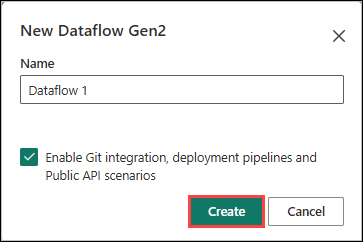
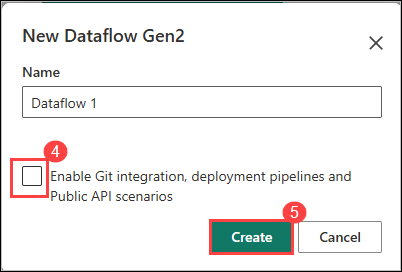
Updates

diff --git a/Instructions/Labs/07-data-engineering-ingest-data-in-fabric.md b/Instructions/Labs/07-data-engineering-ingest-data-in-fabric.md
@@ -16,7 +16,7 @@ You will be able to complete the following tasks:
    
 # Create New - Dataflow Gen2
 
-1. In the left pane, navigate back to your workspace **fabric-<inject key="DeploymentID" enableCopy="false"/>**, then click on **+ New item (1)**. Search for **Dataflow Gen2 (2)** and select **Dataflow Gen2 (3)**. Leave the name as default and click on **Create**.
+1. In the left pane, navigate back to your workspace **fabric-<inject key="DeploymentID" enableCopy="false"/>**, then click on **+ New item (1)**. Search for **Dataflow Gen2 (2)** and select **Dataflow Gen2 (3)**. Leave the name as default, **Uncheck (4)** the **Enable Git integration, deployment pipelines and Public API scenarios**, and then click on **Create (5)**.
 
    ![New dataflow.](./Images/Inj1.png)
    ![New dataflow.](./Images/Inj2.png)
